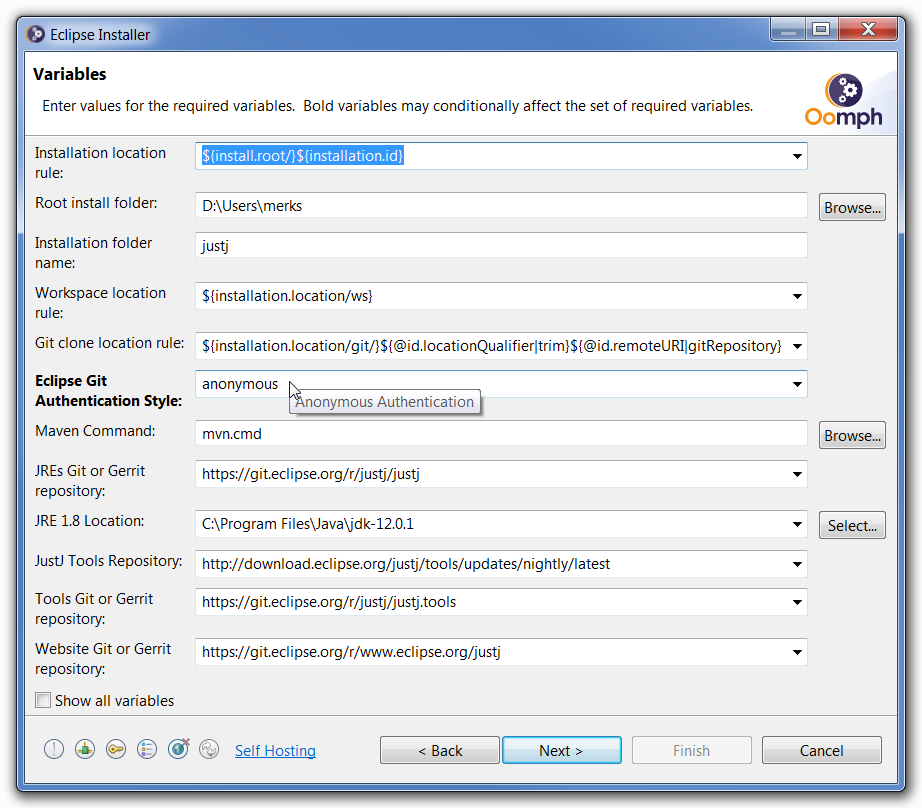
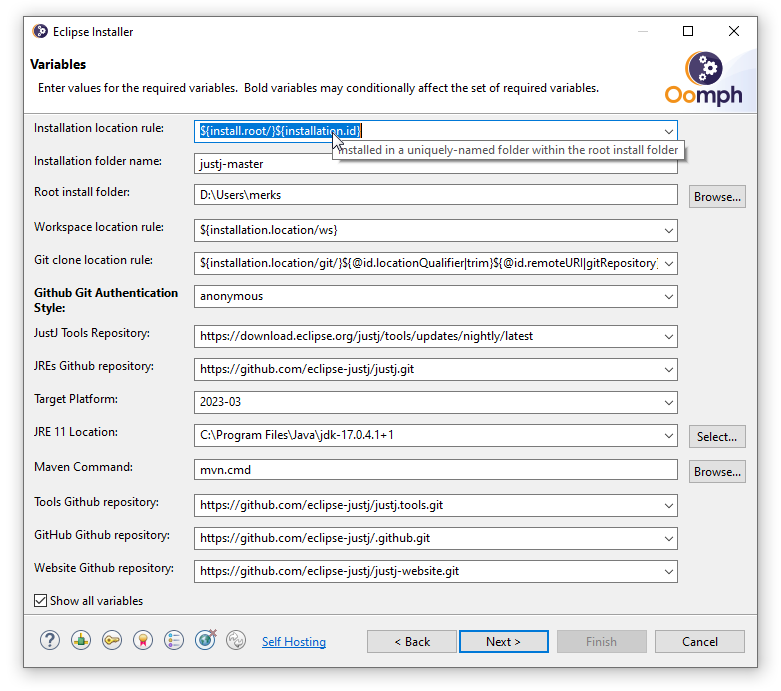
Remove references to bugzilla and the forum
Fixes https://github.com/eclipse-justj/justj/issues/9
Fixes https://github.com/eclipse-justj/justj/issues/5

Changed region(s): [[0.0, 0.0, 1.0, 1.0]]

diff --git a/content/documentation.php b/content/documentation.php
@@ -43,15 +43,19 @@ To build a plugin-based product with an embedded JRE, just include the following
 Note in particular that the plugin requires its OS-specific fragments, filtered of course so that only the appropriate one is actually installed.
 </p>
 <p>
+You may wish to use a <code>.stripped</code> variant if you don't need to use the product's JRE for debugging and hence don't need debug information nor a <code>src.jar</code>. 
+Or you may wish use to a <code>.minimal</code> variant if you know you don't need the full set of modules available in a full JDK.
 </p>
-
 <p>
 Of course you must specify the update site that contains this JRE 
 and naturally you can choose the specific JRE most suitable for the needs and size constraints of your specific product, e.g.,
 </p>
 <blockquote>
-<a href="https://download.eclipse.org/justj/jres/15/updates/release/latest">https://download.eclipse.org/justj/jres/15/updates/release/latest</a>
+<a href="https://download.eclipse.org/justj/jres/17/updates/release/latest" target="_blank">https://download.eclipse.org/justj/jres/17/updates/release/latest</a>
 </blockquote>
+<p>
+The update site's features describe each JRE and the update site's bundles document, in the <code>Properties</code> section, the jlink instructions used to build that JRE as well as the modules and packages available for that JRE to help you choose what's most appropriate for your product.
+</p>
 <p>
 There is a <a href="https://www.eclipse.org/forums/index.php/t/1104206/">forum thread</a> 
 and a <a href="https://www.eclipse.org/lists/justj-dev/msg00003.html">mailing list thread</a> recording the experience of others who have experimented with this.
@@ -136,7 +140,7 @@ or replicate the environment locally where you can run the Maven build locally t
 
 <p>
 If you have problems and need help, don't be afraid to ask.
-Community feedback is welcome. Please use <a href="https://bugs.eclipse.org/bugs/show_bug.cgi?id=562908">Bug 562908</a> for this purpose.
+Community feedback is welcome. Please use <a href="https://github.com/eclipse-justj/justj/discussions">JustJ Discussions</a> for this purpose.
 </p>
 
 <h2 id="jdeps">Building Smaller JREs with <code>jdeps</code></h2>
@@ -151,7 +155,7 @@ which generates <a href="https://download.eclipse.org/justj/jdeps/">a detailed r
 Reducing the JRE size is particularly important for smaller applications such as the <a href="https://wiki.eclipse.org/Eclipse_Installer">Eclipse Installer</a> 
 which is currently roughly 53MB in size.
 Shipping that with a 70MB JRE would be a significant bloat.
-Furthermore, most users treat it as disposable, repeatedly downloading a new one with each release.
+Furthermore, most users treat the installer as disposable, repeatedly downloading a new one with each release.
 It is downloaded roughly 3 million times per release cycle.
 </p>
 <p>
@@ -162,13 +166,16 @@ This has the advantage that the large JRE fragment will be in the shared bundle 
 it needs to be updated only whenever there is a new Java release.
 </p>
 <p>
-The result of this analysis is used to produce the JREs with <code>.minimal</code> qualifier on the download site:
+The result of jdeps analysis is used to produce the JREs with <code>.minimal</code> qualifier on the download site:
 </p>
 <blockquote>
-<a href="https://download.eclipse.org/justj/jres/14/downloads/latest/">https://download.eclipse.org/justj/jres/14/downloads/latest/</a>
+<a href="https://download.eclipse.org/justj/jres/17/downloads/latest/">https://download.eclipse.org/justj/jres/17/downloads/latest/</a>
 </blockquote>
 <p>
-The <code>.stripped</code> versions of these are less than 1/2 the size of the corresponding <code>.full.stripped</code> version.
+Each <code>xyz.stripped</code> version, i.e., with debug information stripped and excluding the <code>src.jar</code> with sources used only for debuggin, are less than 1/2 the size of the corresponding <code>xyz</code> version.
+</p>
+<p>
+The <code>.base</code> verions are the absolute minimal JRE needed to run Equinox with logging and without reflection warnings.
 </p>
 <p>
 Some outstanding concerns that remain are of course the impact of what's excluded.
@@ -178,7 +185,7 @@ The absence of the <code>jdk.localedata</code> module might also be a concern if
 </p>
 
 <p>
-Community feedback is welcome. Please use <a href="https://bugs.eclipse.org/bugs/show_bug.cgi?id=562908">Bug 562908</a> for this purpose.
+Community feedback is welcome. Please use <a href="https://github.com/eclipse-justj/justj/issues">JustJ Discussions</a> for this purpose.
 </p>
 
 <h2 id="jre-gen-anatomy">Anatomy of <code><a href="https://ci.eclipse.org/justj/job/build-jres/lastSuccessfulBuild/artifact/jre-gen/">jre-gen</a></code></h2>

diff --git a/content/developer.php b/content/developer.php
@@ -44,18 +44,18 @@ To best contribute to Eclipse in general, and to JustJ specifically, please do t
 </p>
 <ul>
   <li>
-  If you don't already have an Eclipse Account, <a href="https://accounts.eclipse.org/user/register" target="_blank">register</a> now.
+  If you don't already have a GitHub Account, <a href="https://github.com/signup" target="_blank">register</a> now.
   </li>
   <li>
-  If you haven't already signed your Eclipse Contributor Agreement, <a href="https://accounts.eclipse.org/user/eca" target="_blank">sign</a> now.
+  If you don't already have an Eclipse Account, <a href="https://accounts.eclipse.org/user/register" target="_blank">register</a> now;
+  use the same email address for both accounts.
   </li>
   <li>
-  If you haven't already set up your Eclipse Gerrit Account, <a href="https://wiki.eclipse.org/Gerrit#User_Account" target="_blank">set it up</a> now.
+  If you haven't already signed your Eclipse Contributor Agreement, <a href="https://accounts.eclipse.org/user/eca" target="_blank">sign</a> now;
+  for this to be used to process your pull requests, you need to use the same email address as is used for your GitHub account.
   </li>
   <li>
-  If you're not familiar with Bugzilla,
-  learn <a href="https://wiki.eclipse.org/Bug_Reporting_FAQ" target="_blank">how to use Bugzilla</a>
-  and learn how Buzilla fits into the <a href="https://wiki.eclipse.org/Development_Resources/HOWTO/Bugzilla_Use" target="_blank">development process</a>.
+  Use each repository's <a href="https://github.com/eclipse-justj/justj/issues" target="_blank">issues list</a> to report problems and each repository's <a href="https://github.com/eclipse-justj/justj/discussions" target="_blank">discussions</a> list to ask questions.
   </li>
 </ul>
 
@@ -83,19 +83,6 @@ If you've used Oomph before, many of the variables will not be prompted unless y
 Please do so now, and review the setting for <span class="detail">Git clone location rule</span> to ensure that it contains <code>${@id.locationQualifier|trim}</code> as illustrated above.
 Older versions of Oomph did not include this part, so if that is missing, use the dropdown to choose the first choice.
 Doing so will ensure that the Git clone for the website project will be properly included in the development environment.
-</p>
-
-<p>
-Of course you can do the setup using anonymous access, but to contribute back you will need an account as described in the <a href="#contributing">Contributing</a> section.
-For the <span class="detail">Eclipse Git Authentication Style</span> its best to use <code>SSH Authentication</code>.
-Choosing that will prompt for your <span class="detail">Eclipse Git/Gerrit user ID</span> and the page will look as follows:
-</p>
-<p>
-<img id="setup-variables-ssh" class="thumb border" onclick="popup('setup-variables-ssh');" src="content/setup-images/SetupVariablesWithSSH.png" alt="The Setup Variables for SSH Authentication"/>
-</p>
-<p>
-Note that all the <span class="detail">Git or Gerrit repository</span> URLs now use <code>ssh:</code> protocol and each uses your <code>git.user.id</code>.
-Here I have entered my ID <code>emerks</code>; the default <code>anonymous</code> will not work so you must change it.
 </p>
 <p>
 If you later wish to do local Maven/Tycho builds, which is highly likely,

diff --git a/content/support.php b/content/support.php
@@ -15,15 +15,15 @@
   
 <h2>Issue Tracking</h2>
 <p>
-Browse the outstanding <code><a href="https://bugs.eclipse.org/bugs/buglist.cgi?bug_status=UNCONFIRMED&bug_status=NEW&bug_status=ASSIGNED&bug_status=REOPENED&classification=Technology&order=Importance&product=Justj&query_format=advanced">JustJ Bugzilla Issues</a></code>.
+Browse the outstanding <code><a href="https://github.com/eclipse-justj/justj/issues">JustJ Issues</a></code>.
 </p>
 <p>
-Report a <code><a href="https://bugs.eclipse.org/bugs/enter_bug.cgi?product=Justj">JustJ Bugzilla Issue</a></code>.
+Report a <code><a href="https://github.com/eclipse-justj/justj/issues/new">JustJ Issue</a></code>.
 </p>
 
 <h2>Communication</h2>
 <p>
-Ask a question on the <code><a href="https://www.eclipse.org/forums/index.php/f/532/">JustJ Forum</a></code>.
+Ask a question using <code><a href="https://github.com/eclipse-justj/justj/discussions">JustJ Discussions</a></code>.
 </p>
 <p>
 Discuss issues with other project participants on the <code><a href="https://accounts.eclipse.org/mailing-list/justj-dev">justj-dev</a></code> mailing list.

diff --git a/_projectCommon.php b/_projectCommon.php
@@ -14,6 +14,6 @@
 
   $Nav->addNavSeparator("JustJ Project Portal", "//eclipse.org/projects/project.php?id=technology.justj");
 
-  $Nav->addCustomNav("Ask a Question", "//www.eclipse.org/forums/index.php/f/532/", "_blank", NULL);
-  $Nav->addCustomNav("Report a Problem", "//bugs.eclipse.org/bugs/enter_bug.cgi?product=Justj", "_blank", NULL);
+  $Nav->addCustomNav("Ask a Question", "https://github.com/eclipse-justj/justj/discussions", "_blank", NULL);
+  $Nav->addCustomNav("Report a Problem", "https://github.com/eclipse-justj/justj/issues", "_blank", NULL);
 ?>

diff --git a/index.php b/index.php
@@ -95,7 +95,6 @@ $variables['main_container_classes'] = 'container';
 $variables['main_container_html'] = '';
 
 // Insert header navigation for project websites.
-// Bug 436108 - https://bugs.eclipse.org/bugs/show_bug.cgi?id=436108
 $links = array();
 $links[] = array(
   'icon' => 'fa-download', // Required
